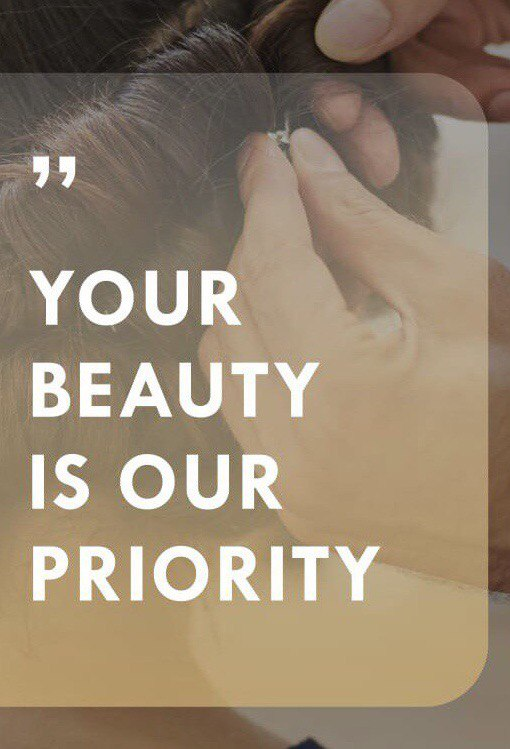
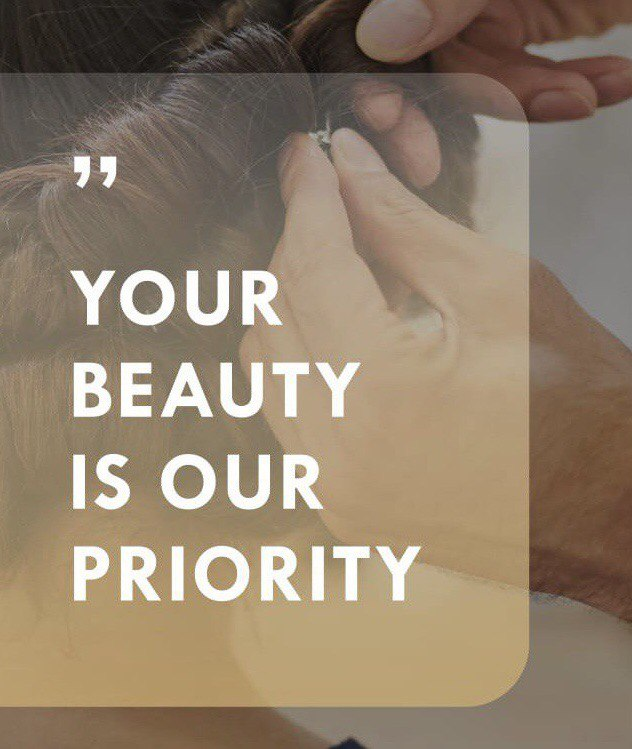
u

diff --git a/index.css b/index.css
@@ -314,7 +314,7 @@ h2{
     .welcome{
      min-height:700px;
      min-width: 60px;
-     background-image: url("image/back2.jpg");
+     background-image: url("image/bback.jpg");
      
      
      
